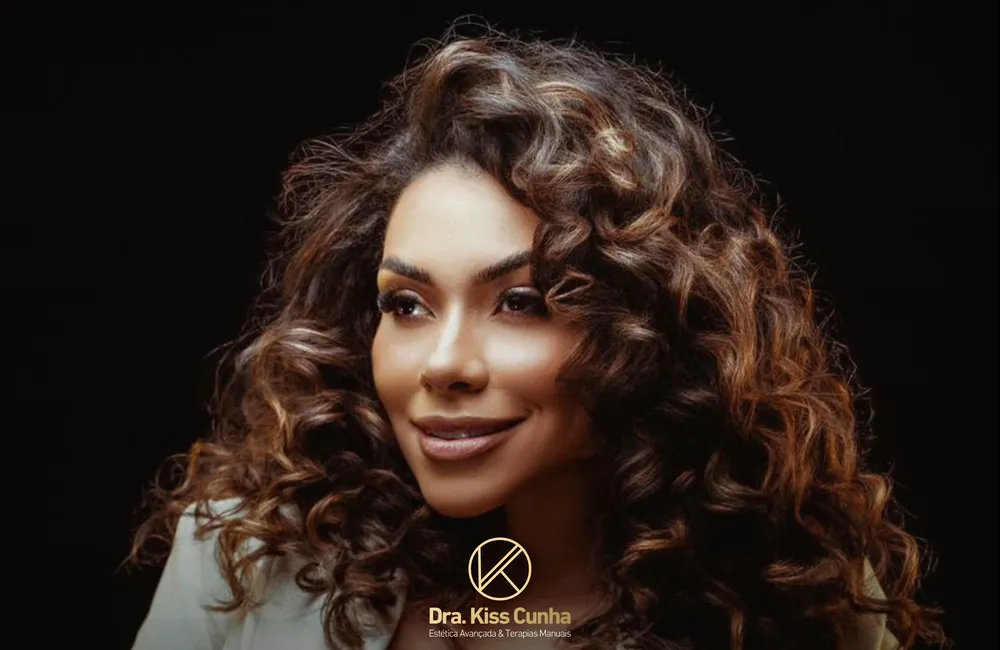
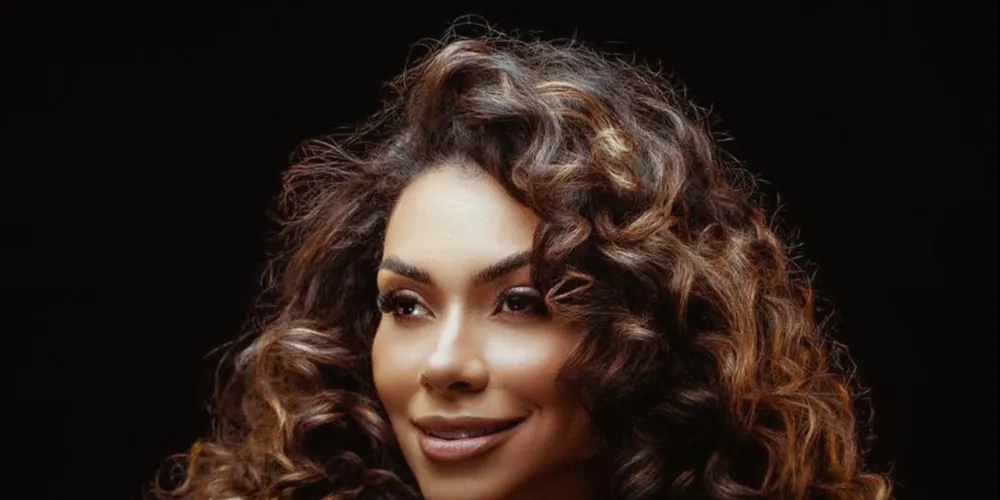
Lista: bandeiras dos estados, datas em linhas, curso com texto fora da foto; botões em vidro dourado no site todo

diff --git a/lista.html b/lista.html
@@ -24,6 +24,10 @@
   <symbol id="seta" viewBox="0 0 24 24" fill="none" stroke="currentColor" stroke-width="1.4"><path d="M4 12h16m-6-6 6 6-6 6"/></symbol>
   <symbol id="mail" viewBox="0 0 24 24" fill="none" stroke="currentColor" stroke-width="1.4"><rect x="3" y="5" width="18" height="14" rx="1.5"/><path d="m3.5 6 8.5 7 8.5-7"/></symbol>
   <symbol id="pin" viewBox="0 0 24 24" fill="none" stroke="currentColor" stroke-width="1.4"><path d="M12 21s-7-6.2-7-11.5a7 7 0 0 1 14 0C19 14.8 12 21 12 21z"/><circle cx="12" cy="9.5" r="2.5"/></symbol>
+  <!-- bandeiras dos estados -->
+  <symbol id="uf-sp" viewBox="0 0 30 21"><rect width="30" height="21" fill="#111"/><g fill="#fff"><rect y="1.615" width="30" height="1.615"/><rect y="4.846" width="30" height="1.615"/><rect y="8.077" width="30" height="1.615"/><rect y="11.308" width="30" height="1.615"/><rect y="14.538" width="30" height="1.615"/><rect y="17.769" width="30" height="1.615"/></g><rect width="12.5" height="11.3" fill="#D6232A"/><circle cx="6.25" cy="5.65" r="3.6" fill="#fff"/><path d="M6.25 3.3 8.3 5.65 6.25 8 4.2 5.65z" fill="#1F3F95"/><g fill="#F6C343"><circle cx="1.6" cy="1.6" r=".75"/><circle cx="10.9" cy="1.6" r=".75"/><circle cx="1.6" cy="9.7" r=".75"/><circle cx="10.9" cy="9.7" r=".75"/></g></symbol>
+  <symbol id="uf-se" viewBox="0 0 30 21"><rect width="30" height="21" fill="#F4C21B"/><rect width="30" height="5.25" fill="#0D8A4A"/><rect y="10.5" width="30" height="5.25" fill="#0D8A4A"/><rect width="12" height="10.5" fill="#1F4FA3"/><g fill="#fff"><circle cx="6" cy="2.6" r=".85"/><circle cx="3" cy="5" r=".85"/><circle cx="9" cy="5" r=".85"/><circle cx="4.2" cy="8" r=".85"/><circle cx="7.8" cy="8" r=".85"/></g></symbol>
+  <symbol id="uf-rs" viewBox="0 0 30 21"><path fill="#0B8A43" d="M0 0h19L0 13.3z"/><path fill="#D6232A" d="M19 0h11v7.7L10 21H0v-7.7z"/><path fill="#F4C21B" d="M30 7.7V21H10z"/><ellipse cx="15" cy="10.5" rx="3.2" ry="3.6" fill="#fff"/><ellipse cx="15" cy="10.5" rx="2" ry="2.3" fill="none" stroke="#BFA26F" stroke-width=".8"/></symbol>
 </svg>
 
 <main class="lk">
@@ -49,15 +53,33 @@
     <div class="agenda">
       <h3 class="agenda__mes">Agosto</h3>
       <ul>
-        <li><span class="agenda__uf">SP</span><div><strong>Bauru</strong><span>Botox Day · dia 14</span></div></li>
-        <li><span class="agenda__uf">SP</span><div><strong>São Paulo</strong><span>24 a 28</span></div></li>
+        <li>
+          <span class="bandeira" title="São Paulo"><svg><use href="#uf-sp"/></svg></span>
+          <div><strong>Bauru<small>SP</small></strong><ul class="datas"><li><b>14</b><span>Botox Day</span></li></ul></div>
+        </li>
+        <li>
+          <span class="bandeira" title="São Paulo"><svg><use href="#uf-sp"/></svg></span>
+          <div><strong>São Paulo<small>SP</small></strong><ul class="datas"><li><b>24 a 28</b><span>Atendimentos</span></li></ul></div>
+        </li>
       </ul>
       <h3 class="agenda__mes">Setembro</h3>
       <ul>
-        <li><span class="agenda__uf">SP</span><div><strong>São Paulo</strong><span>Dia 01 · Curso VIP Sentir</span></div></li>
-        <li><span class="agenda__uf">SE</span><div><strong>Aracaju</strong><span>08 · Estética avançada &nbsp;·&nbsp; 09 · Terapias manuais</span></div></li>
-        <li><span class="agenda__uf">RS</span><div><strong>Porto Alegre</strong><span>21 a 23</span></div></li>
-        <li><span class="agenda__uf">SP</span><div><strong>Bauru</strong><span>Dia 25 · Botox Day</span></div></li>
+        <li>
+          <span class="bandeira" title="São Paulo"><svg><use href="#uf-sp"/></svg></span>
+          <div><strong>São Paulo<small>SP</small></strong><ul class="datas"><li><b>01</b><span>Curso VIP Sentir</span></li></ul></div>
+        </li>
+        <li>
+          <span class="bandeira" title="Sergipe"><svg><use href="#uf-se"/></svg></span>
+          <div><strong>Aracaju<small>SE</small></strong><ul class="datas"><li><b>08</b><span>Estética avançada</span></li><li><b>09</b><span>Terapias manuais</span></li></ul></div>
+        </li>
+        <li>
+          <span class="bandeira" title="Rio Grande do Sul"><svg><use href="#uf-rs"/></svg></span>
+          <div><strong>Porto Alegre<small>RS</small></strong><ul class="datas"><li><b>21 a 23</b><span>Atendimentos</span></li></ul></div>
+        </li>
+        <li>
+          <span class="bandeira" title="São Paulo"><svg><use href="#uf-sp"/></svg></span>
+          <div><strong>Bauru<small>SP</small></strong><ul class="datas"><li><b>25</b><span>Botox Day</span></li></ul></div>
+        </li>
       </ul>
     </div>
   </section>
@@ -65,15 +87,15 @@
   <!-- CURSO EM DESTAQUE -->
   <section class="lk-bloco" aria-labelledby="t-curso">
     <p class="kicker">Curso</p>
-    <a class="destaque" href="#" data-wa="gostaria de mais informações sobre o curso de Massoterapia para Iniciantes">
-      <img src="img/lista/curso.webp" width="1000" height="650" loading="lazy" alt="Dra. Kiss Cunha, curso de massoterapia">
+    <article class="destaque">
+      <img src="img/lista/curso.webp" width="1000" height="500" loading="lazy" alt="Dra. Kiss Cunha, curso de massoterapia">
       <div class="destaque__txt">
         <span class="destaque__selo">Curso prático · poucas vagas</span>
         <h2 id="t-curso">Massoterapia <em>para iniciantes</em></h2>
-        <p>Com a Dra. Kiss Cunha · 31 de outubro</p>
-        <span class="destaque__btn">Quero saber mais <svg><use href="#seta"/></svg></span>
+        <p class="destaque__info"><span>Com a Dra. Kiss Cunha</span><span>31 de outubro</span></p>
+        <a class="btn-linha btn-ouro destaque__btn" href="#" data-wa="gostaria de mais informações sobre o curso de Massoterapia para Iniciantes">Quero saber mais <svg><use href="#seta"/></svg></a>
       </div>
-    </a>
+    </article>
   </section>
 
   <!-- LINKS -->

diff --git a/css/lista.css b/css/lista.css
@@ -34,27 +34,31 @@
 .agenda__mes{display:flex;align-items:center;gap:12px;margin:16px 0 6px;font:400 11px var(--corpo);letter-spacing:.26em;text-transform:uppercase;color:var(--ouro)}
 .agenda__mes::after{content:"";flex:1;height:1px;background:linear-gradient(90deg,rgba(191,162,111,.45),transparent)}
 .agenda ul{list-style:none;margin:0;padding:0}
-.agenda li{display:flex;align-items:center;gap:14px;padding:12px 0;border-bottom:1px solid rgba(255,255,255,.06)}
-.agenda li:last-child{border-bottom:0}
-.agenda__uf{flex:none;width:40px;height:40px;border-radius:12px;display:grid;place-items:center;font:500 11px var(--corpo);letter-spacing:.08em;color:#F1DFB3;
-  background:linear-gradient(135deg,rgba(233,211,161,.22),rgba(191,162,111,.08));border:1px solid rgba(191,162,111,.35)}
-.agenda strong{display:block;font:500 20px/1.15 var(--display);color:var(--off)}
-.agenda li span:not(.agenda__uf){font-size:13.5px;color:var(--txt)}
+.agenda>ul>li{display:flex;align-items:flex-start;gap:14px;padding:14px 0;border-bottom:1px solid rgba(255,255,255,.06)}
+.agenda>ul>li:last-child{border-bottom:0}
+.bandeira{position:relative;flex:none;width:40px;height:28px;margin-top:2px;border-radius:8px;overflow:hidden;
+  box-shadow:0 0 0 1px rgba(255,255,255,.18),0 6px 14px -6px rgba(0,0,0,.8)}
+.bandeira svg{display:block;width:100%;height:100%}
+.bandeira::after{content:"";position:absolute;inset:0;border-radius:inherit;
+  background:linear-gradient(160deg,rgba(255,255,255,.38),rgba(255,255,255,.06) 42%,transparent 55%,rgba(0,0,0,.18))}
+.agenda strong{display:flex;align-items:baseline;gap:8px;font:500 21px/1.15 var(--display);color:var(--off)}
+.agenda strong small{font:400 10px var(--corpo);letter-spacing:.2em;color:var(--txt)}
+.datas{list-style:none;margin:6px 0 0;padding:0;display:grid;gap:2px}
+.datas li{display:flex;align-items:baseline;gap:10px;font-size:13.5px;line-height:1.45;color:var(--txt)}
+.datas b{min-width:4.2em;font:500 13px var(--corpo);letter-spacing:.04em;color:#F1DFB3}
 
 /* curso em destaque */
-.destaque{position:relative;display:block;border-radius:26px;overflow:hidden;border:1px solid rgba(191,162,111,.4);isolation:isolate;
-  box-shadow:0 20px 60px -24px rgba(191,162,111,.35)}
-.destaque img{width:100%;aspect-ratio:4/3.9;object-fit:cover;object-position:center 20%;transition:transform .8s}
-.destaque:hover img{transform:scale(1.04)}
-.destaque::after{content:"";position:absolute;inset:0;z-index:0;background:linear-gradient(to top,rgba(12,12,13,.95) 18%,rgba(12,12,13,.35) 55%,transparent 75%)}
-.destaque__txt{position:absolute;inset:auto 0 0;z-index:1;padding:24px 22px 24px;text-align:center}
+.destaque{padding:10px;border-radius:28px;border:1px solid rgba(191,162,111,.4);
+  background:linear-gradient(160deg,rgba(191,162,111,.14),rgba(255,255,255,.035) 45%);
+  -webkit-backdrop-filter:var(--blur);backdrop-filter:var(--blur);box-shadow:var(--glass-brilho),0 20px 60px -24px rgba(191,162,111,.35)}
+.destaque img{width:100%;aspect-ratio:4/3.1;object-fit:cover;object-position:center 30%;border-radius:20px}
+.destaque__txt{padding:24px 14px 18px;text-align:center}
 .destaque__selo{display:inline-block;padding:7px 14px;border-radius:999px;font:400 10px var(--corpo);letter-spacing:.22em;text-transform:uppercase;color:#F1DFB3;
-  background:rgba(191,162,111,.16);border:1px solid rgba(191,162,111,.45);-webkit-backdrop-filter:var(--blur);backdrop-filter:var(--blur)}
-.destaque h2{font-size:42px;margin:14px 0 6px;line-height:1}
-.destaque p{margin:0 0 18px;font-size:14px;color:var(--cinza)}
-.destaque__btn{display:inline-flex;align-items:center;gap:12px;padding:14px 24px;border-radius:999px;font:400 12px/1 var(--corpo);letter-spacing:.2em;text-transform:uppercase;
-  color:#F6E8C8;border:1px solid rgba(233,211,161,.5);background:linear-gradient(135deg,rgba(233,211,161,.3),rgba(191,162,111,.12) 55%,rgba(191,162,111,.24));
-  -webkit-backdrop-filter:var(--blur);backdrop-filter:var(--blur);box-shadow:inset 0 1px 0 rgba(255,255,255,.28)}
+  background:rgba(191,162,111,.14);border:1px solid rgba(191,162,111,.45)}
+.destaque h2{font-size:42px;margin:16px 0 10px;line-height:1}
+.destaque__info{display:flex;justify-content:center;flex-wrap:wrap;gap:4px 18px;margin:0 0 22px;font-size:14px;color:var(--cinza)}
+.destaque__info span+span::before{content:"✦";margin-right:18px;font-size:8px;color:var(--ouro);vertical-align:middle}
+.destaque__btn{width:100%;justify-content:center;padding:16px 22px}
 .destaque__btn svg{width:16px;height:16px}
 
 /* links */

diff --git a/css/site.css b/css/site.css
@@ -318,12 +318,17 @@ h1 em,h2 em,.frase em{font-style:italic;color:var(--ouro)}
 .wa-flutua:hover{background:rgba(191,162,111,.85);color:var(--preto)}
 
 /* botão de agendamento: vidro dourado */
-.btn-ouro{border-radius:999px;color:#F6E8C8;border:1px solid rgba(233,211,161,.5);
-  background:linear-gradient(135deg,rgba(233,211,161,.3),rgba(191,162,111,.12) 55%,rgba(191,162,111,.24));
-  -webkit-backdrop-filter:var(--blur);backdrop-filter:var(--blur);
-  box-shadow:inset 0 1px 0 rgba(255,255,255,.28),inset 0 -1px 0 rgba(191,162,111,.25),0 10px 30px -12px rgba(191,162,111,.55)}
-.btn-ouro:hover{color:#fff;border-color:rgba(241,223,179,.8);background:linear-gradient(135deg,rgba(233,211,161,.48),rgba(191,162,111,.28))}
-.btn-ouro .estrela,.btn-ouro:hover .estrela{color:#F1DFB3}
+.btn-ouro{position:relative;overflow:hidden;isolation:isolate;border-radius:999px;color:#1B1509;font-weight:500;
+  border:1px solid rgba(255,244,214,.7);
+  background:linear-gradient(135deg,rgba(246,228,186,.82) 0%,rgba(214,186,132,.66) 40%,rgba(191,162,111,.58) 62%,rgba(236,212,160,.76) 100%);
+  -webkit-backdrop-filter:blur(14px) saturate(160%);backdrop-filter:blur(14px) saturate(160%);
+  box-shadow:inset 0 1px 0 rgba(255,255,255,.65),inset 0 -2px 8px rgba(120,90,40,.22),0 12px 32px -12px rgba(191,162,111,.65);
+  transition:filter .25s,transform .25s,box-shadow .25s}
+.btn-ouro::after{content:"";position:absolute;inset:0;z-index:-1;border-radius:inherit;pointer-events:none;
+  background:linear-gradient(110deg,transparent 30%,rgba(255,255,255,.55) 48%,transparent 62%);transform:translateX(-120%);transition:transform .9s ease}
+.btn-ouro:hover{color:#1B1509;filter:brightness(1.06);transform:translateY(-1px);box-shadow:inset 0 1px 0 rgba(255,255,255,.75),inset 0 -2px 8px rgba(120,90,40,.22),0 16px 36px -12px rgba(191,162,111,.8)}
+.btn-ouro:hover::after{transform:translateX(120%)}
+.btn-ouro .estrela,.btn-ouro:hover .estrela{color:#1B1509}
 .btn-grande{padding:18px 28px;white-space:nowrap}
 
 /* ---------- TELAS GRANDES ---------- */
